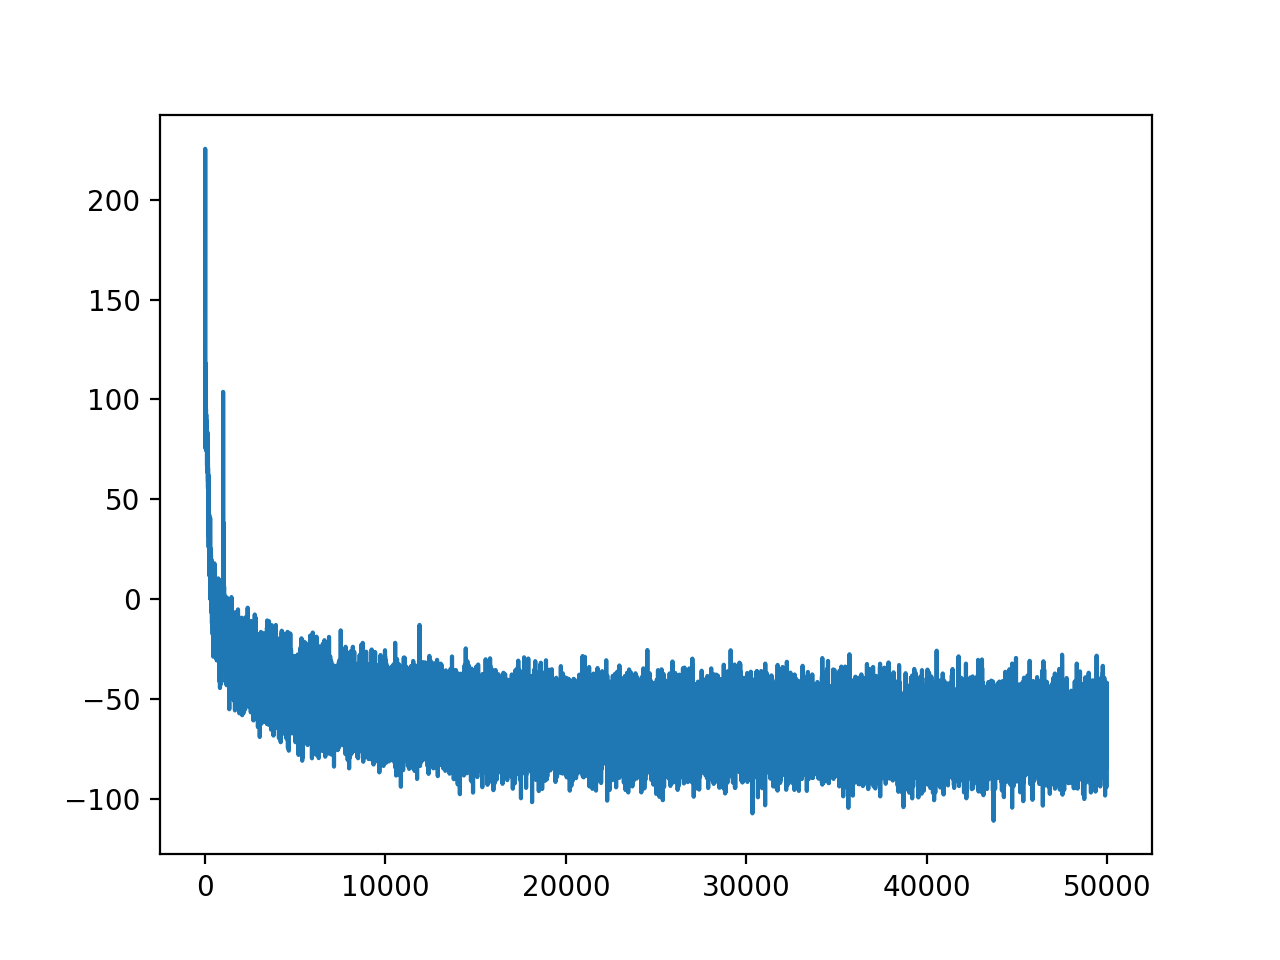
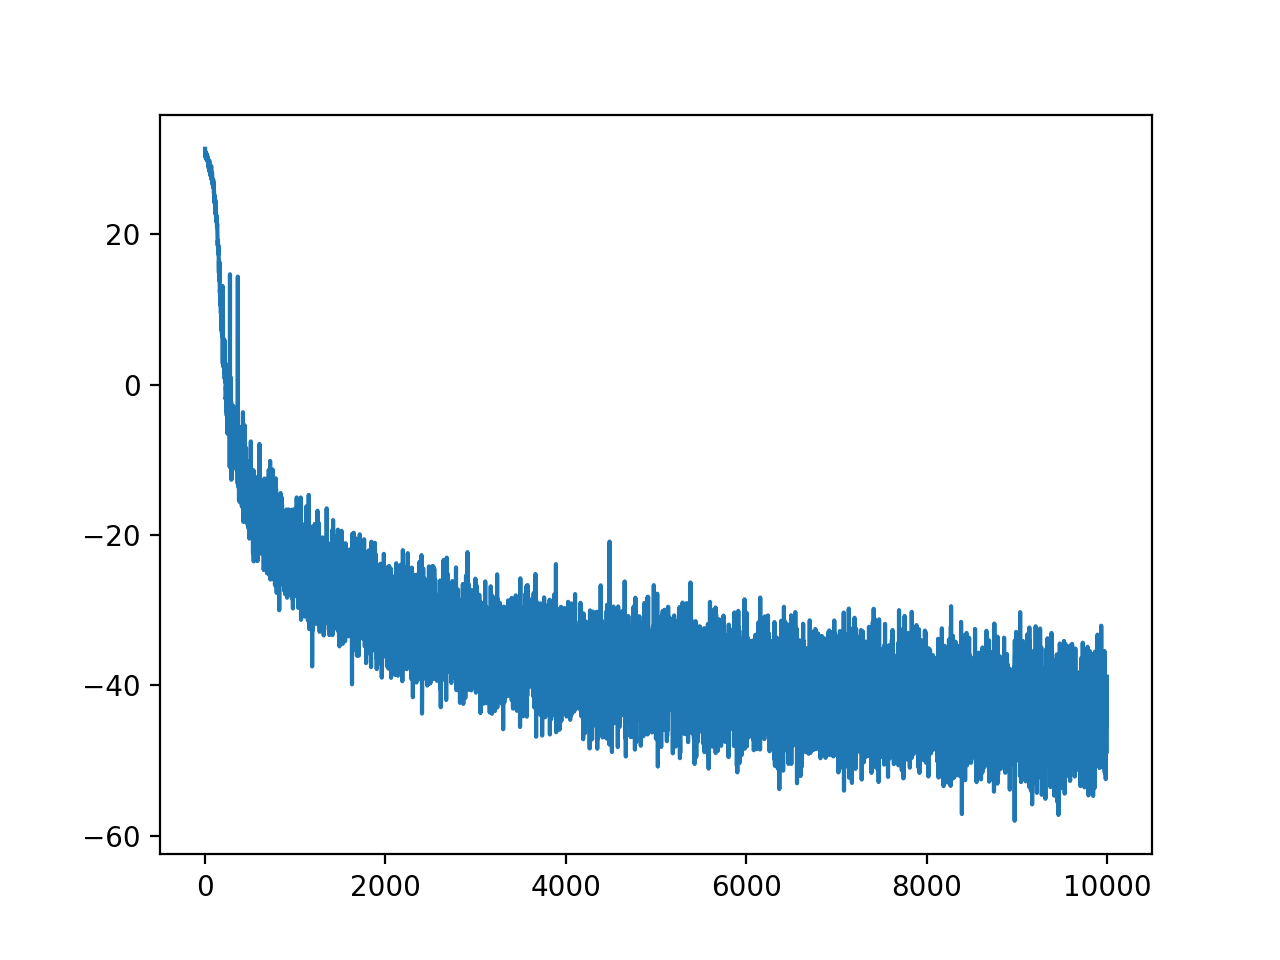
multiple datavectors for posterior

diff --git a/src/flow_grf.py b/src/flow_grf.py
@@ -9,7 +9,6 @@ from sklearn.preprocessing import StandardScaler
 import matplotlib.pyplot as plt
 import powerbox as pbox
 from tqdm import trange
-import tensorflow_probability.substrates.jax as tfp
 import tensorflow_probability.substrates.jax.distributions as tfd
 
 
@@ -28,11 +27,8 @@ def make_field(seed, A, B, data_dim):
 def make_fields(parameters, data_dim):
     fields = []
     for i in range(len(parameters)):
-        fields.append(
-            make_field(
-                i, parameters[i, 0], parameters[i, 1], data_dim
-            )
-        )
+        A, B = parameters[i]
+        fields.append(make_field(i, A, B, data_dim))
     return jnp.stack(fields)
 
 
@@ -113,8 +109,9 @@ class RealNVP(nn.Module):
             ) 
             for _ in range(self.n_transforms)
         ]
-        self.base_dist = tfp.distributions.Normal(
-            loc=jnp.zeros(self.d_params), scale=jnp.ones(self.d_params)
+        self.base_dist = tfd.Normal(
+            loc=jnp.zeros(self.d_params), 
+            scale=jnp.ones(self.d_params)
         )
     
     def log_prob(self, x, q):
@@ -148,22 +145,28 @@ if __name__ == "__main__":
 
     key = jr.key(0)
 
-    # Model and training
-    data_dim = 64
-    parameter_dim = 2
-    n_data = 50_000
-    n_samples = 10
-    n_steps = 50_000
-    n_batch = 128
-    lr = 1e-4
-    # MCMC sampling
-    num_samples = 10_000
-    num_chains = 1
-    inv_mass_matrix = jnp.ones((parameter_dim,)) * 0.1 
-    step_size = 1e-2
     # Data
-    lower = jnp.array([0.1, 1.])
-    upper = jnp.array([1.5, 4.])
+    data_dim            = 32 # Dimensionality of 1D GRF
+    parameter_dim       = 2  # A and B in P(k) = Ak^-B
+    lower               = jnp.array([0.1, 1.])
+    upper               = jnp.array([1.5, 4.])
+    use_scaler          = False # Standardising scaler on data or not
+    # Model and training
+    n_data              = 50_000
+    d_hidden            = 32
+    n_samples           = 10
+    n_steps             = 10_000
+    n_batch             = 128
+    lr                  = 1e-4
+    # MCMC sampling
+    n_obs               = 50 # Number of i.i.d. datavectors to sample
+    num_samples         = 20_000
+    num_chains          = 1
+    inv_mass_matrix     = jnp.ones((parameter_dim,)) * 0.1 
+    step_size           = 1e-2
+
+    # True parameters to measure datavectors for posterior at 
+    parameters = jnp.array([[0.8, 3.]]) 
 
     parameter_prior = tfd.Blockwise(
         [tfd.Uniform(lower[p], upper[p]) for p in range(parameter_dim)]
@@ -174,12 +177,19 @@ if __name__ == "__main__":
     q = parameter_prior.sample((n_data,), seed=key_q)
     x = make_fields(q, data_dim)
 
-    scaler = StandardScaler()
-    x = scaler.fit_transform(x)
+    # Scale data or not
+    if use_scaler:
+        scaler = StandardScaler()
+        transform = scaler.fit_transform
+        x = transform(x)
+    else:
+        transform = lambda x: x
 
     assert jnp.isfinite(x).all()
 
-    model = RealNVP(d_params=data_dim, d_q=parameter_dim, d_hidden=256)
+    model = RealNVP(
+        d_params=data_dim, d_q=parameter_dim, d_hidden=d_hidden
+    )
     params = model.init(key_init, x[:2], q[:2])
 
     assert jnp.isfinite(model.apply(params, x[:3], q[:3]).mean())
@@ -203,7 +213,9 @@ if __name__ == "__main__":
         for step in steps:
 
             # Draw a random batches from x
-            idx = jr.choice(jr.fold_in(key, step), x.shape[0], shape=(n_batch,))
+            idx = jr.choice(
+                jr.fold_in(key, step), x.shape[0], shape=(n_batch,)
+            )
             
             x_batch, q_batch = x[idx], q[idx]
 
@@ -248,19 +260,24 @@ if __name__ == "__main__":
 
     key_q, key_sample = jr.split(key)
 
-    # Datavector and its true parameters
-    parameters = parameter_prior.sample((1,), seed=key)
-    observed = make_fields(parameters, data_dim)
+    # Generate i.i.d. measurements at true parameters
+    obs = []
+    for i in range(n_obs):
+        obs.append(make_fields(parameters, data_dim))
+    observed = jnp.concatenate(obs)
+
 
     def density_fn(x, observed):
-        pi = x["pi"][None, :] 
+        # Posterior density function
+        pi = x["pi"]
+        pi = pi[jnp.newaxis, :] if n_obs == 1 else jnp.stack([pi] * n_obs)
         log_prob = model.apply(params, observed, pi) + parameter_prior.log_prob(pi)
-        return log_prob.squeeze()
+        return log_prob.sum()
 
 
     # Initialise MCMC on posterior function (scaling data, very important)
     nuts = blackjax.nuts(
-        partial(density_fn, observed=scaler.fit_transform(observed)), 
+        partial(density_fn, observed=transform(observed)), 
         step_size, 
         inv_mass_matrix
     )
